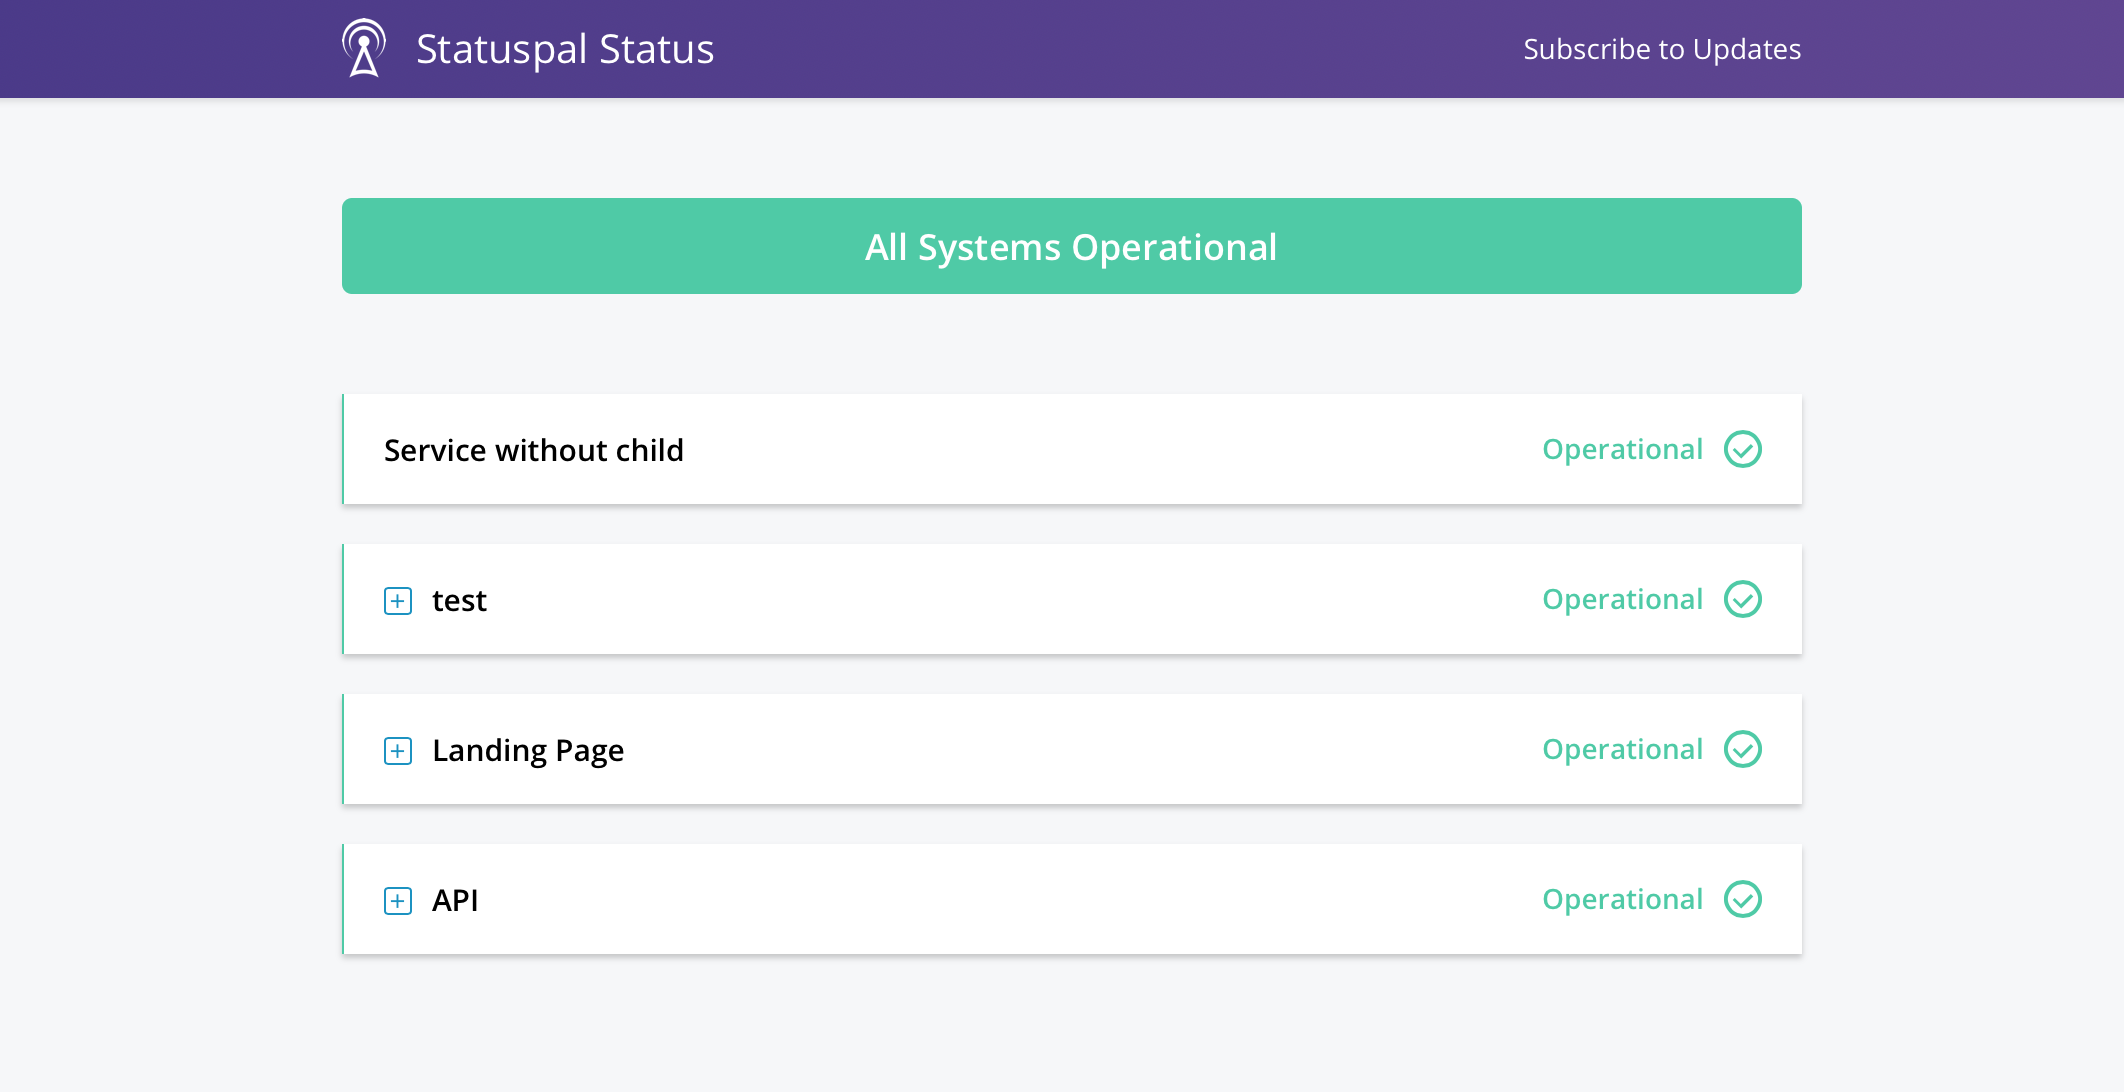
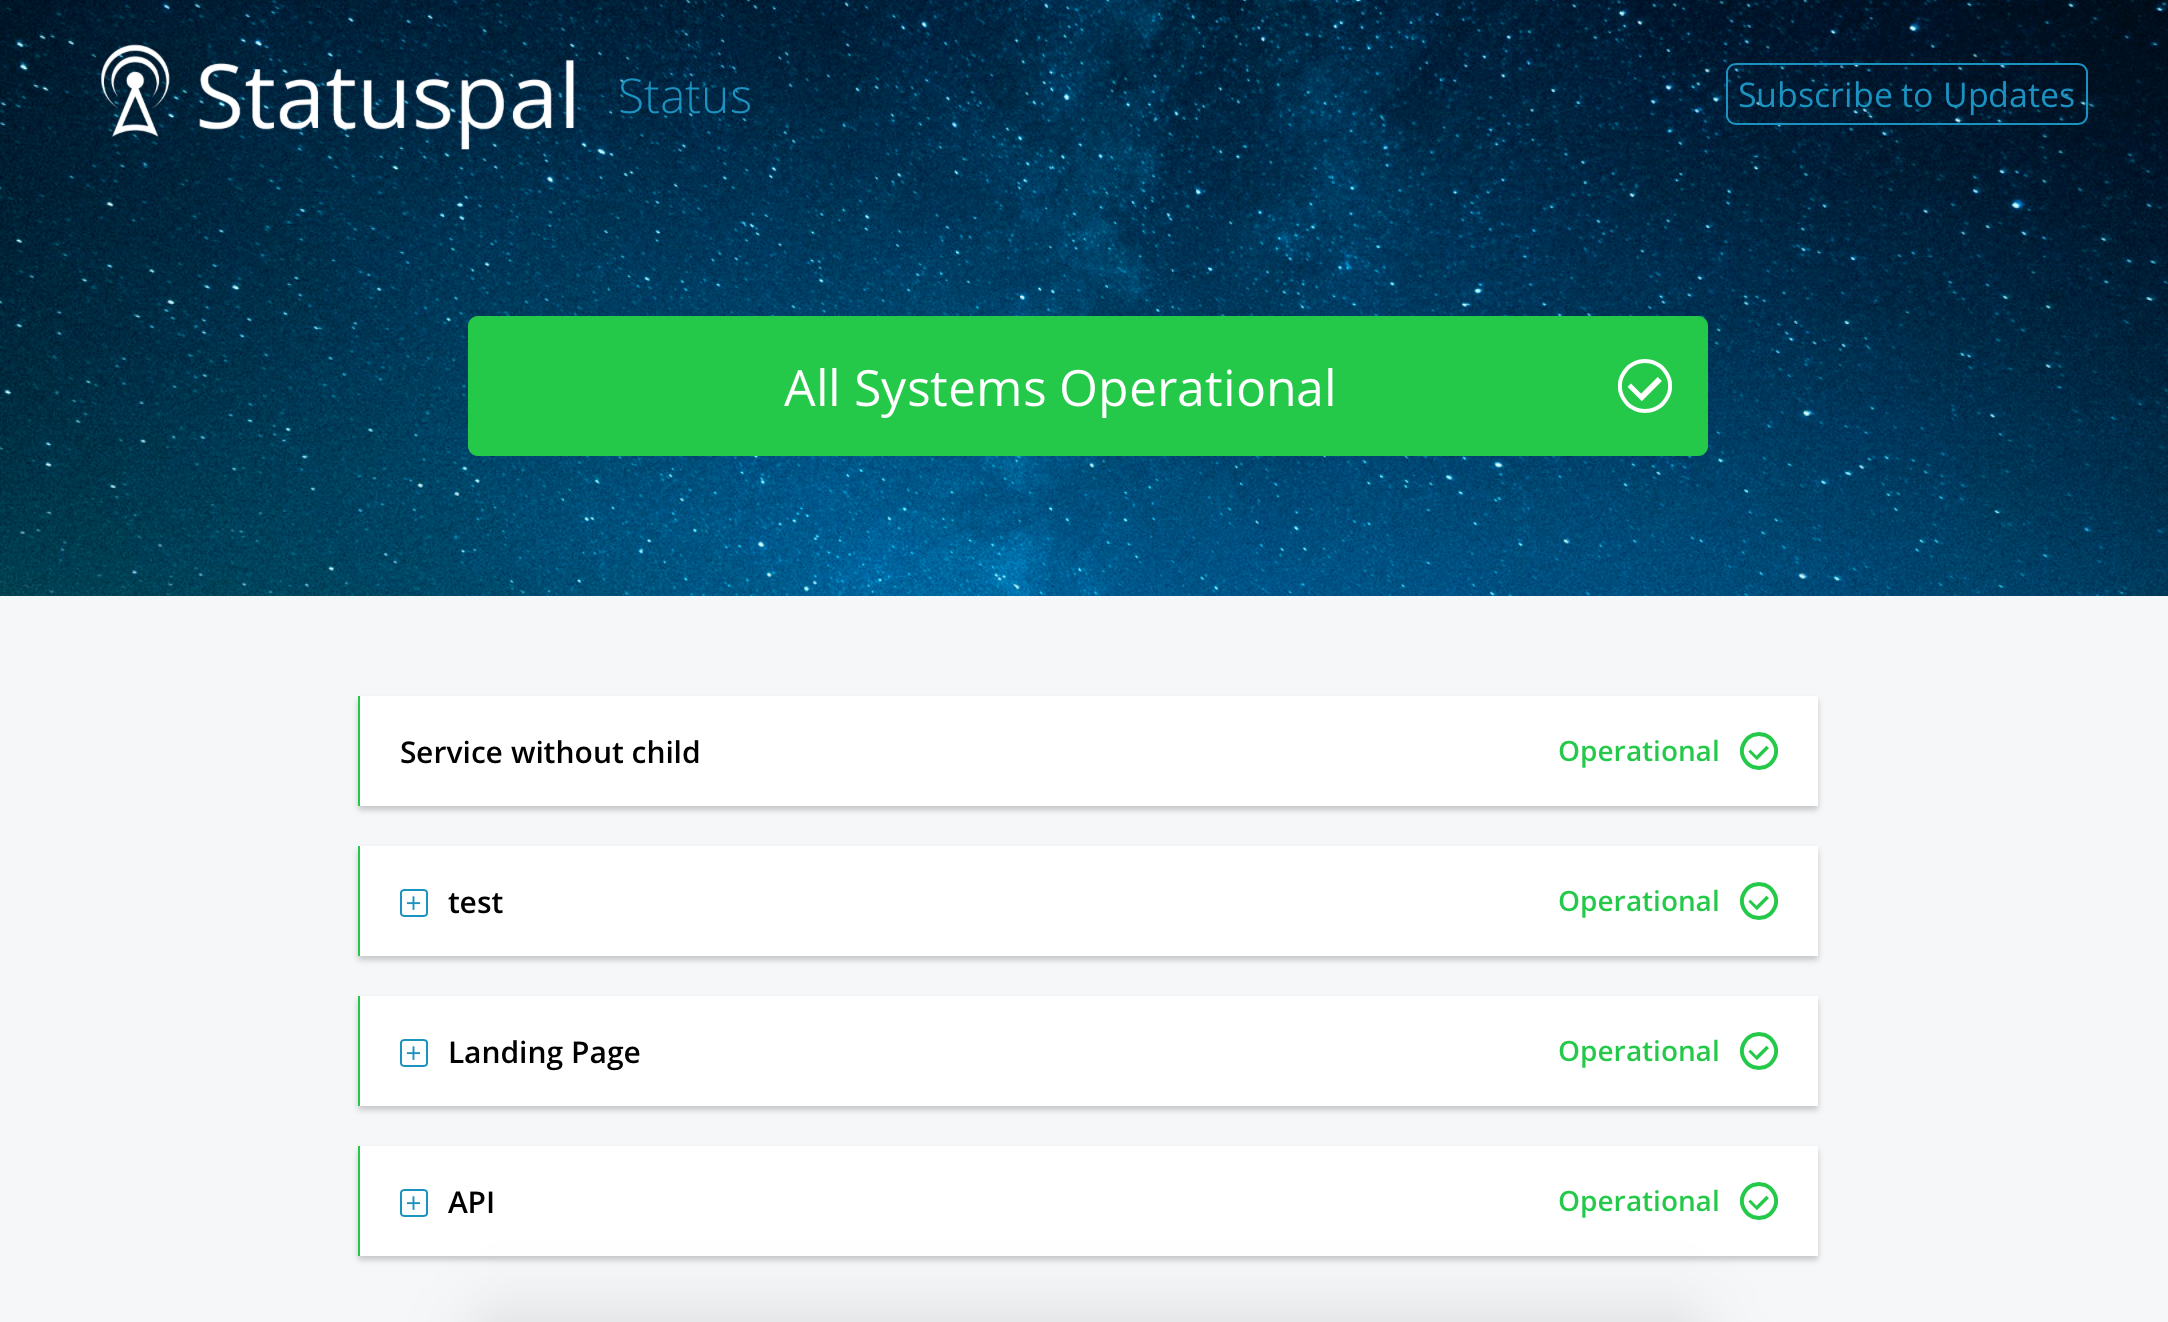
readme

diff --git a/README.md b/README.md
@@ -1,6 +1,6 @@
-# Statuspal Default Theme
+# Statuspal Big Logo Theme
 
-This is the new default theme of Statuspal, which features a small top bar with an optional
+This is a new theme of Statuspal, which features a large header with an optional
 logo image and and logo text, here is a preview:
 
 ![Theme Preview](/preview.png?raw=true "Theme Preview")
